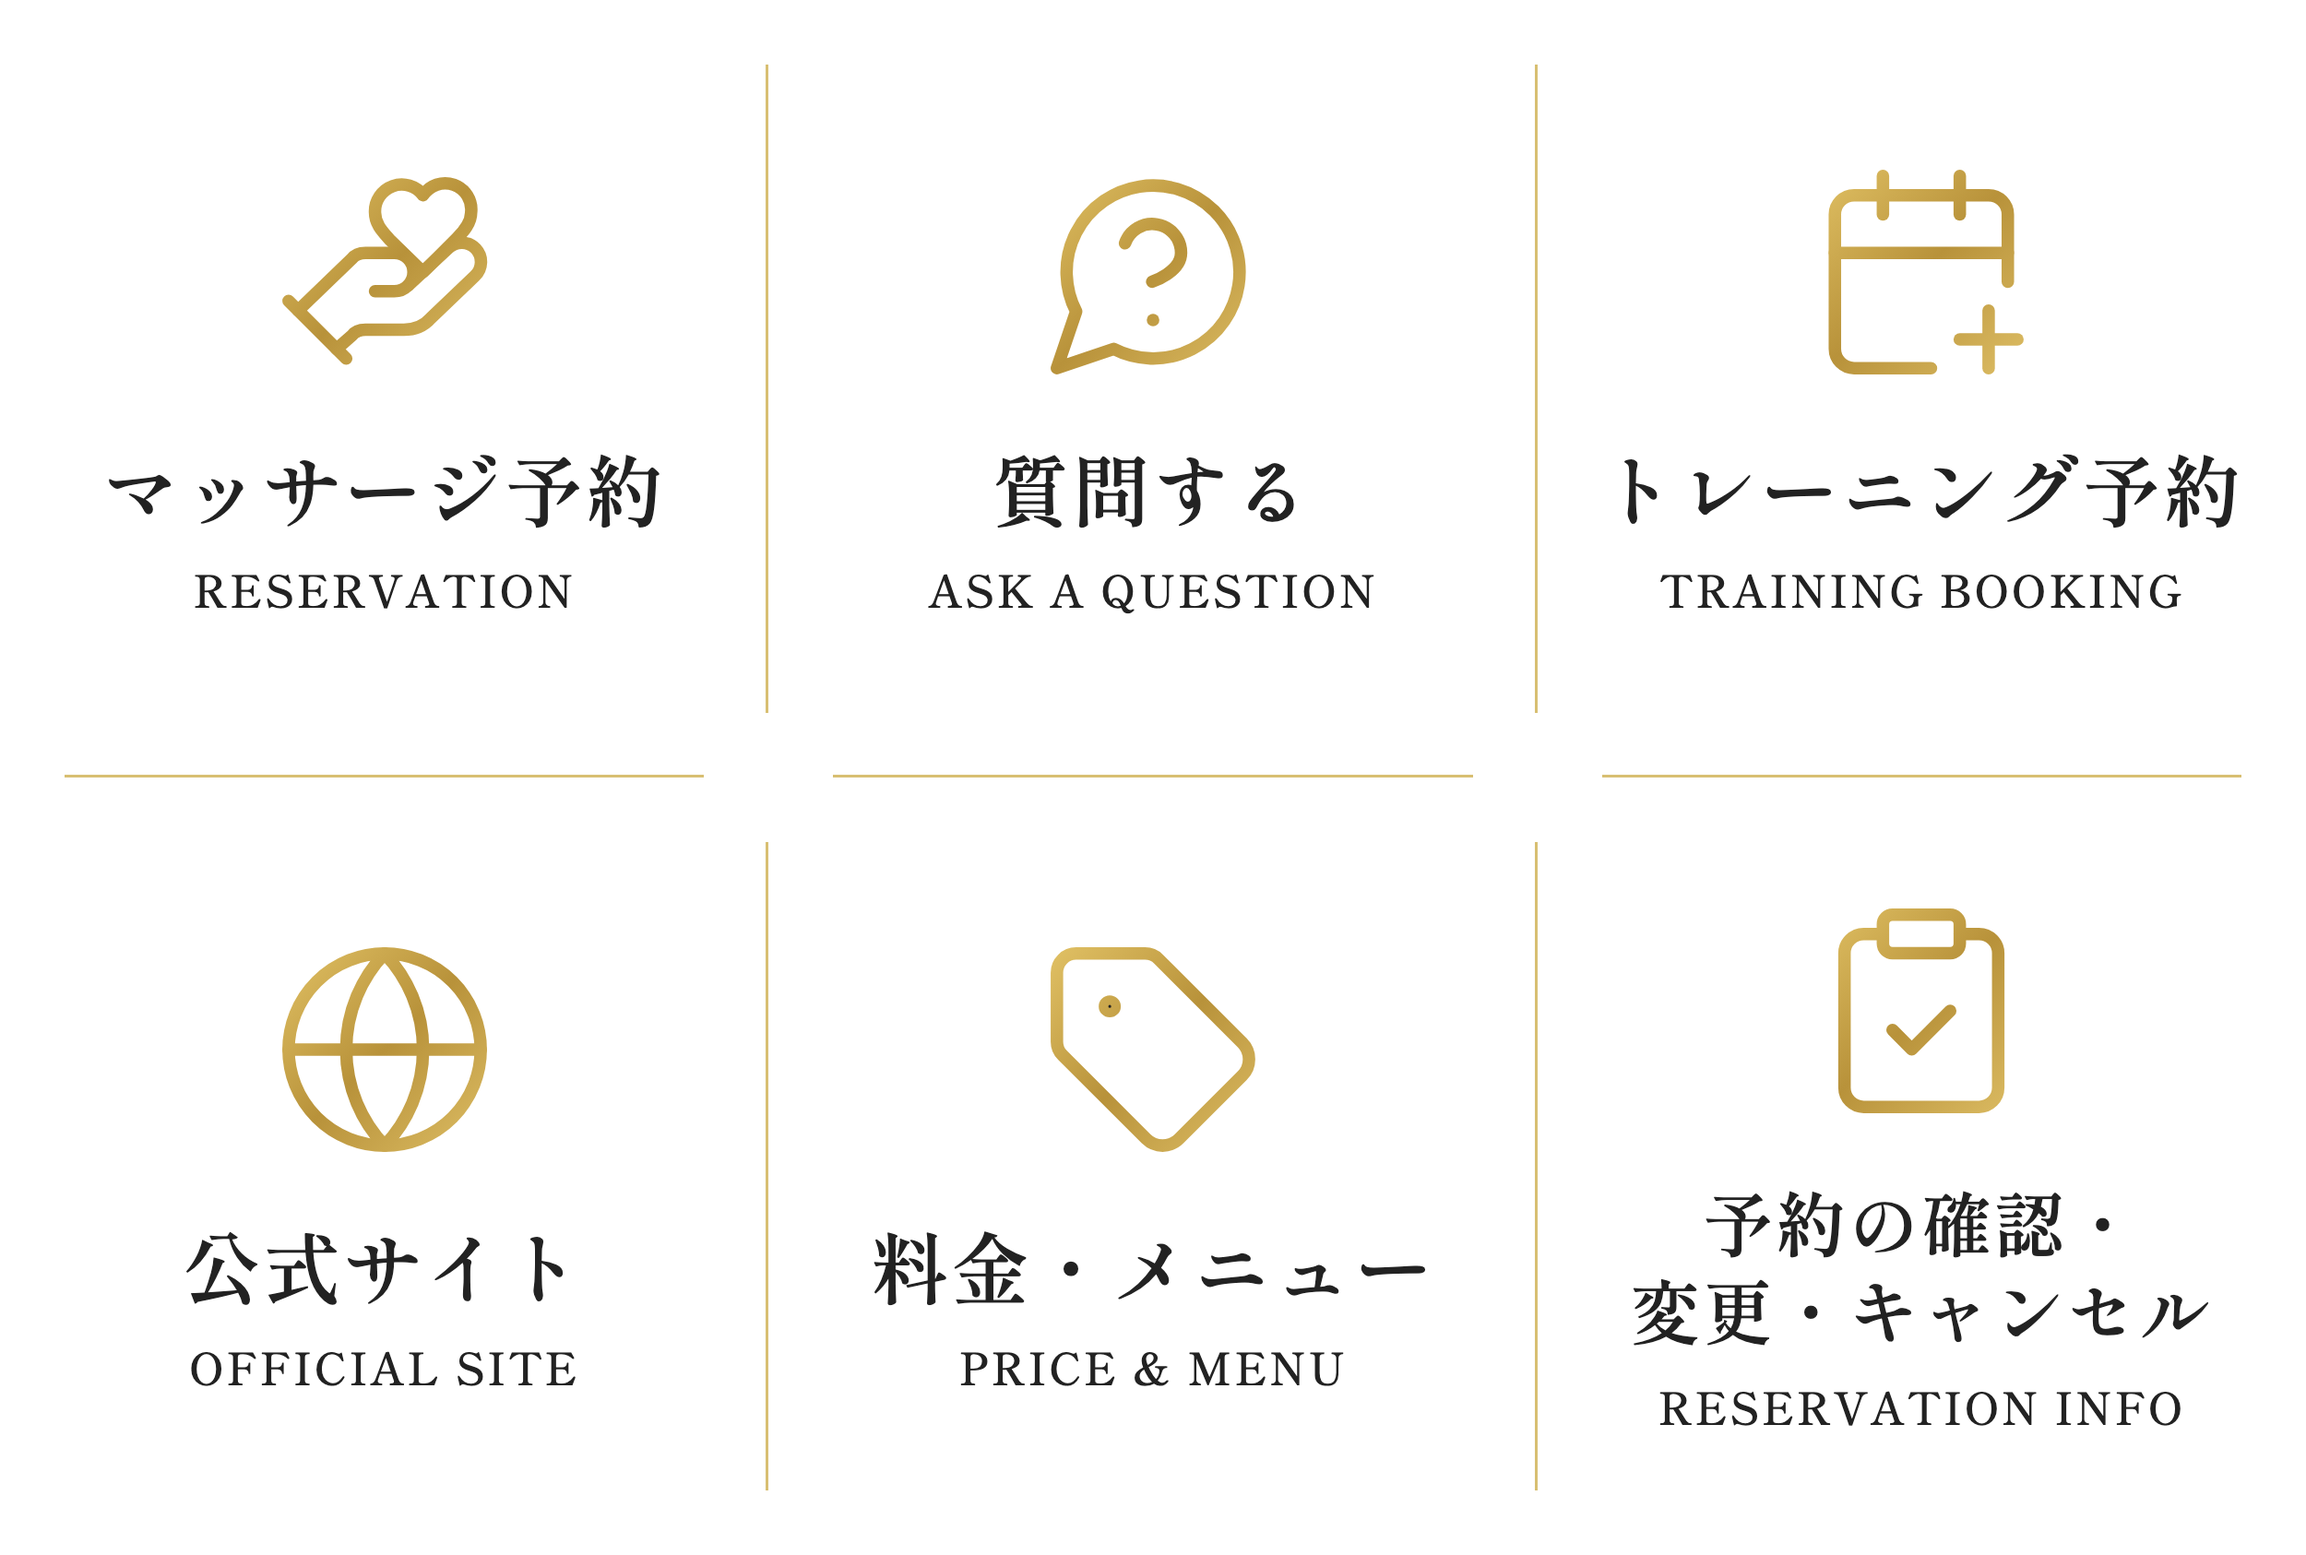
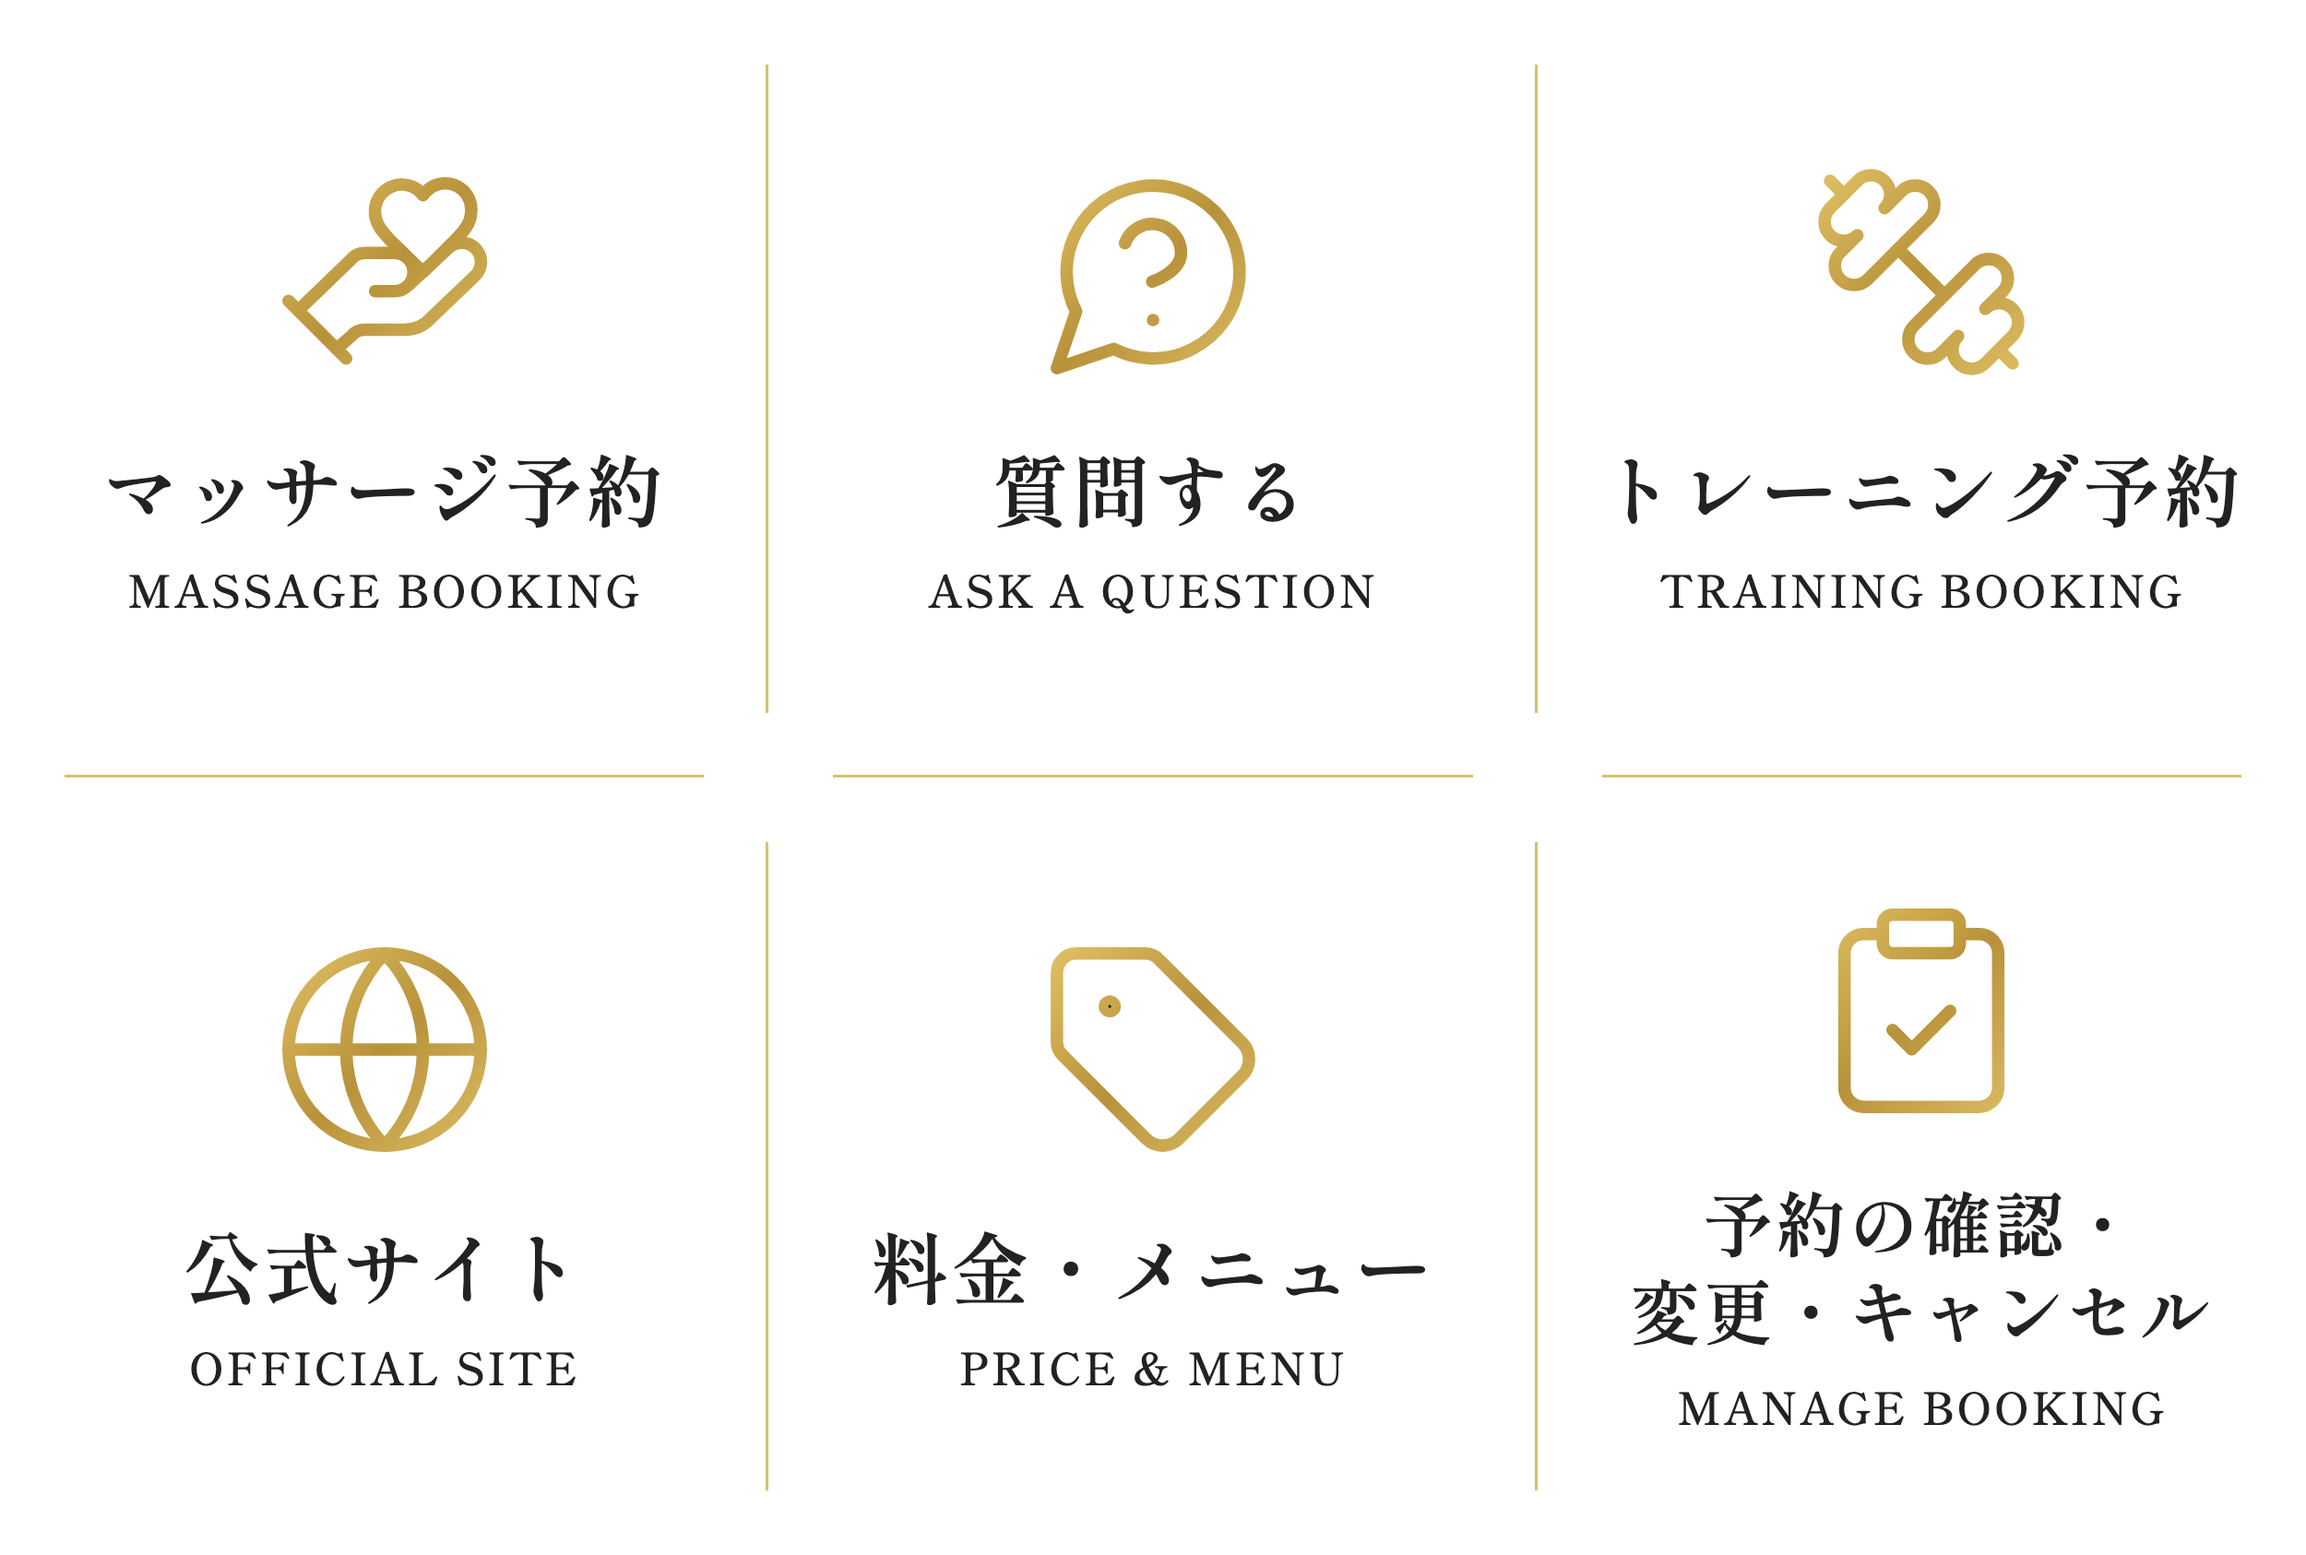
feat: リッチメニューの英訳を調整し、トレーニング予約のアイコンをダンベルに変更

Changed region(s): [[0.78, 0.0925, 0.8736, 0.2467], [0.7176, 0.8944, 0.936, 0.9253], [0.0624, 0.3701, 0.2808, 0.4009]]

diff --git a/public/rich_menu_v2.html b/public/rich_menu_v2.html
@@ -81,7 +81,7 @@
     <div class="tile col-1 row-1">
       <div class="icon"><i data-lucide="hand-heart"></i></div>
       <div class="title">マッサージ予約</div>
-      <div class="subtitle">Reservation</div>
+      <div class="subtitle">Massage Booking</div>
     </div>
     <div class="tile col-2 row-1">
       <div class="icon"><i data-lucide="message-circle-question"></i></div>
@@ -89,7 +89,7 @@
       <div class="subtitle">Ask a Question</div>
     </div>
     <div class="tile row-1">
-      <div class="icon"><i data-lucide="calendar-plus"></i></div>
+      <div class="icon"><i data-lucide="dumbbell"></i></div>
       <div class="title">トレーニング予約</div>
       <div class="subtitle">Training Booking</div>
     </div>
@@ -107,7 +107,7 @@
     <div class="tile">
       <div class="icon"><i data-lucide="clipboard-check"></i></div>
       <div class="title two-line">予約の確認・<br>変更・キャンセル</div>
-      <div class="subtitle">Reservation Info</div>
+      <div class="subtitle">Manage Booking</div>
     </div>
   </div>
 
